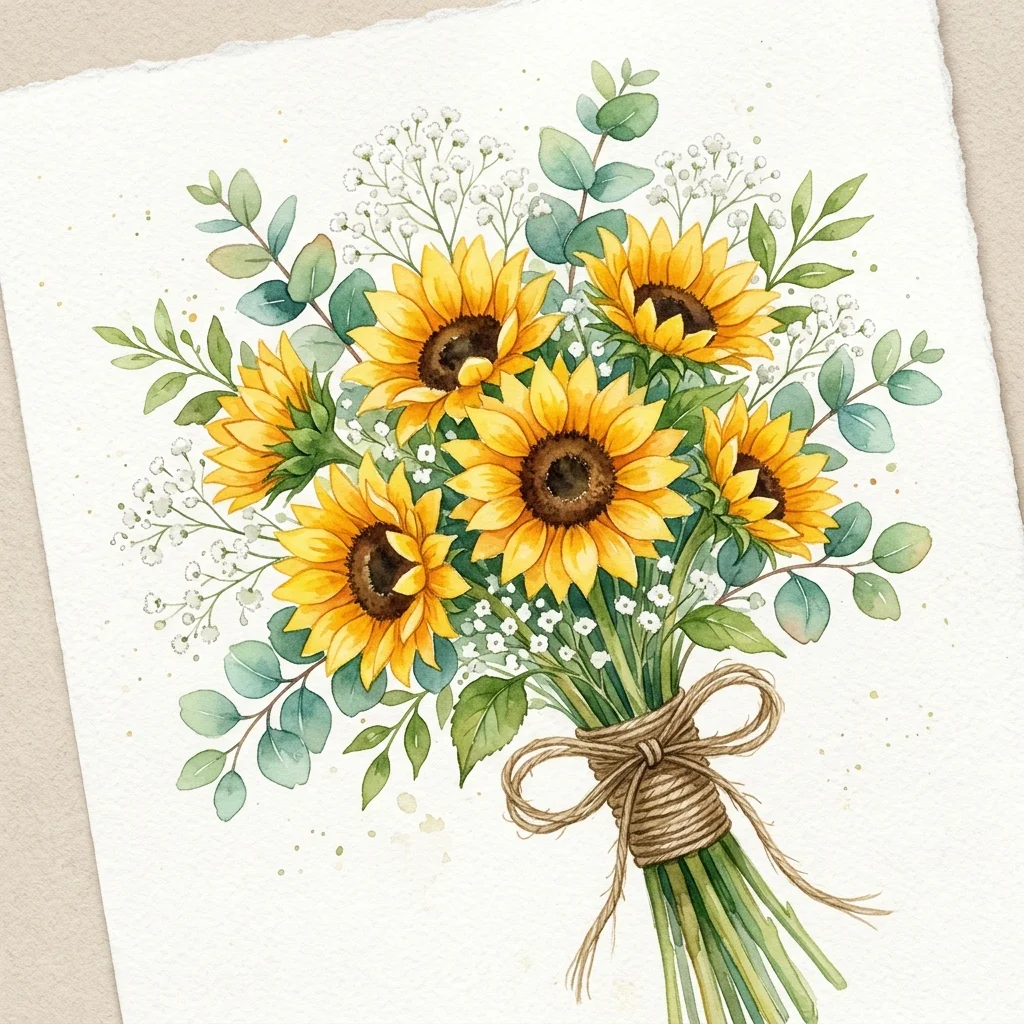
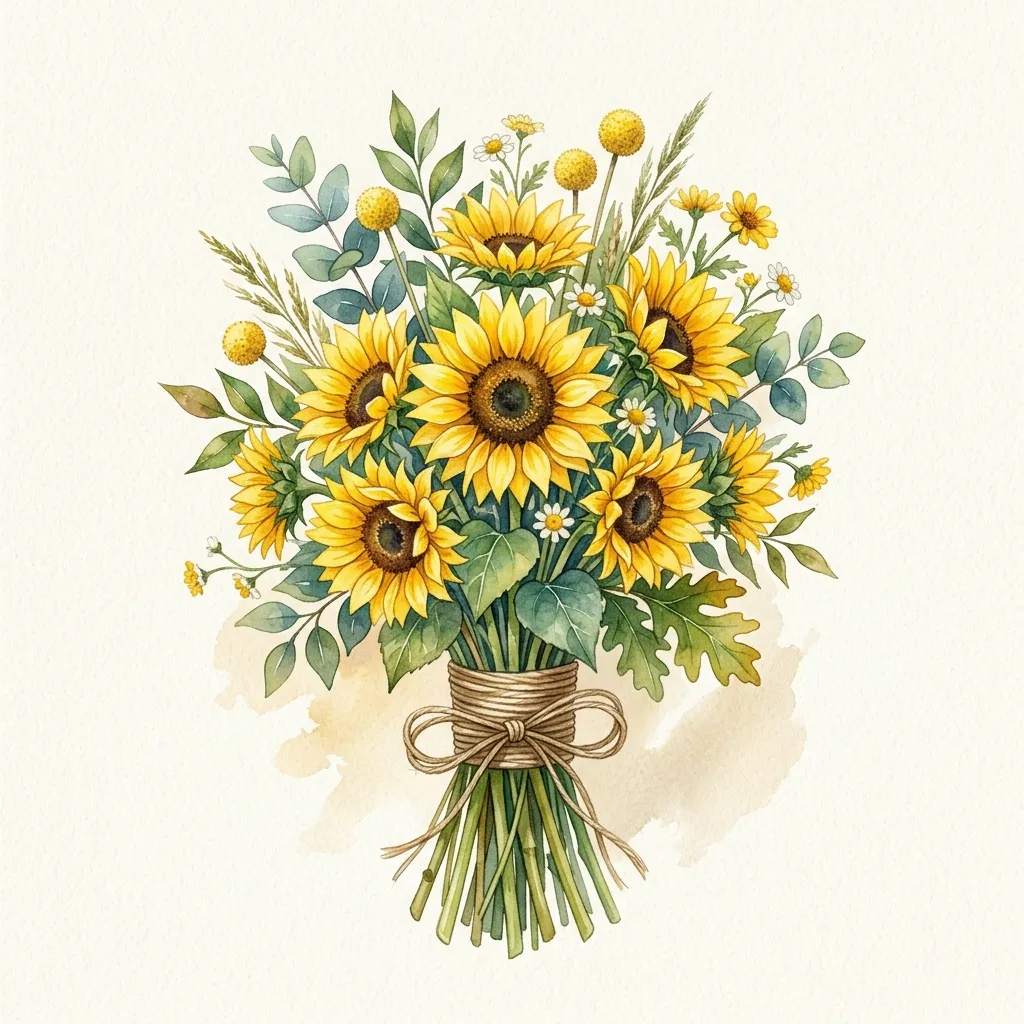
feat: implement GiftViewer component with multi-stage flow and support for background audio, view tracking, and customizable themes.

diff --git a/src/components/creator/steps/BouquetStep.tsx b/src/components/creator/steps/BouquetStep.tsx
@@ -49,18 +49,33 @@ export default function BouquetStep({ giftData, updateFinale }: BouquetStepProps
         })}
       </div>
 
-      {/* Finale message */}
-      <div className="p-5 rounded-2xl bg-rose-50/50 border border-rose-100 space-y-2 mt-2">
-        <label className="text-xs font-bold text-rose-700 flex items-center gap-1">
-          <Heart className="w-3.5 h-3.5 fill-rose-500 text-rose-500" /> Kalimat Penutup:
-        </label>
-        <input
-          type="text"
-          value={giftData.finale.message}
-          onChange={(e) => updateFinale('message', e.target.value)}
-          className="w-full px-4 py-2 border border-rose-200 rounded-xl focus:ring-rose-300 focus:border-rose-400 focus:outline-none text-sm bg-white"
-          placeholder="e.g. I love you, Nara."
-        />
+      {/* Finale message & subtitle */}
+      <div className="p-5 rounded-2xl bg-rose-50/50 border border-rose-100 space-y-4 mt-2">
+        <div className="space-y-1.5">
+          <label className="text-xs font-bold text-rose-700 flex items-center gap-1">
+            <Heart className="w-3.5 h-3.5 fill-rose-500 text-rose-500" /> Kalimat Penutup:
+          </label>
+          <input
+            type="text"
+            value={giftData.finale.message}
+            onChange={(e) => updateFinale('message', e.target.value)}
+            className="w-full px-4 py-2 border border-rose-200 rounded-xl focus:ring-rose-300 focus:border-rose-400 focus:outline-none text-sm bg-white"
+            placeholder="e.g. I love you, Nara."
+          />
+        </div>
+
+        <div className="space-y-1.5">
+          <label className="text-xs font-bold text-rose-700 flex items-center gap-1">
+            ✨ Sub-kalimat (Keterangan):
+          </label>
+          <input
+            type="text"
+            value={giftData.finale.subtitle || ''}
+            onChange={(e) => updateFinale('subtitle', e.target.value)}
+            className="w-full px-4 py-2 border border-rose-200 rounded-xl focus:ring-rose-300 focus:border-rose-400 focus:outline-none text-sm bg-white"
+            placeholder="e.g. Untukmu, yang selalu hadir."
+          />
+        </div>
       </div>
     </motion.div>
   );

diff --git a/src/components/creator/steps/ThemeMusicStep.tsx b/src/components/creator/steps/ThemeMusicStep.tsx
@@ -183,16 +183,7 @@ export default function ThemeMusicStep({
             </button>
           ))}
         </div>
-        <div className="pt-2">
-          <label className="text-xs text-stone-400 block mb-1">Atau masukkan URL musik MP3 Anda sendiri:</label>
-          <input
-            type="text"
-            value={giftData.musicUrl}
-            onChange={(e) => setGiftData(prev => ({ ...prev, musicUrl: e.target.value }))}
-            className="w-full px-4 py-2 border border-stone-200 rounded-xl bg-white text-xs focus:ring-rose-200 focus:border-rose-400 focus:outline-none"
-            placeholder="https://example.com/song.mp3"
-          />
-        </div>
+
 
         {/* Custom local MP3 uploader */}
         <div className="pt-2 border-t border-stone-100 mt-2">

diff --git a/src/components/stages/FinaleStage.tsx b/src/components/stages/FinaleStage.tsx
@@ -7,6 +7,7 @@ import Image from 'next/image';
 
 interface FinaleStageProps {
   message: string;
+  subtitle?: string;
   bouquetType: string;
   onRestart: () => void;
 }
@@ -111,7 +112,7 @@ interface Particle {
   type: 'heart' | 'petal';
 }
 
-export default function FinaleStage({ message, bouquetType, onRestart }: FinaleStageProps) {
+export default function FinaleStage({ message, subtitle, bouquetType, onRestart }: FinaleStageProps) {
   const [tapped, setTapped] = useState(false);
   const [particles, setParticles] = useState<Particle[]>([]);
   const data = BOUQUET_DATA[bouquetType] ?? FALLBACK;
@@ -239,7 +240,7 @@ export default function FinaleStage({ message, bouquetType, onRestart }: FinaleS
         </h2>
 
         {/* Subtitle */}
-        <p className="text-center text-sm text-[#7a5c5c]">{data.subtitle}</p>
+        <p className="text-center text-sm text-[#7a5c5c]">{subtitle !== undefined ? subtitle : data.subtitle}</p>
 
         {/* Flower meaning tags */}
         <div className="flex flex-wrap justify-center gap-2 mt-1">

diff --git a/src/components/stages/LockedStage.tsx b/src/components/stages/LockedStage.tsx
@@ -63,7 +63,7 @@ export default function LockedStage({ security, onUnlock }: LockedStageProps) {
   };
 
   return (
-    <div className="absolute inset-0 bg-gradient-to-br from-[#f5ebe0] via-[#f0e3d4] to-[#e6d5c3] flex items-center justify-center p-4 z-20 overflow-hidden">
+    <div className="absolute inset-0 flex items-center justify-center p-4 z-20 overflow-hidden">
 
 
 

diff --git a/src/components/GiftViewer.tsx b/src/components/GiftViewer.tsx
@@ -217,6 +217,7 @@ export default function GiftViewer({ giftData, isPreview = false, activeStep = 1
           >
             <FinaleStage
               message={giftData.finale.message}
+              subtitle={giftData.finale.subtitle}
               bouquetType={giftData.finale.bouquetType}
               onRestart={() => {
                 setStage(giftData.security.gateType === 'none' ? 'INTRO' : 'LOCKED');

diff --git a/src/components/creator/constants.ts b/src/components/creator/constants.ts
@@ -147,6 +147,7 @@ export const DEFAULT_GIFT_DATA: GiftData = {
   },
   finale: {
     message: 'Terima kasih sudah membaca sampai akhir. I love you!',
+    subtitle: 'Untukmu, yang selalu hadir.',
     bouquetType: 'pink_roses'
   }
 };

diff --git a/src/data/mockGifts.ts b/src/data/mockGifts.ts
@@ -52,6 +52,7 @@ export interface GiftData {
   confession?: ConfessionConfig;
   finale: {
     message: string;
+    subtitle?: string;
     bouquetType: string;
   };
   view_count?: number;